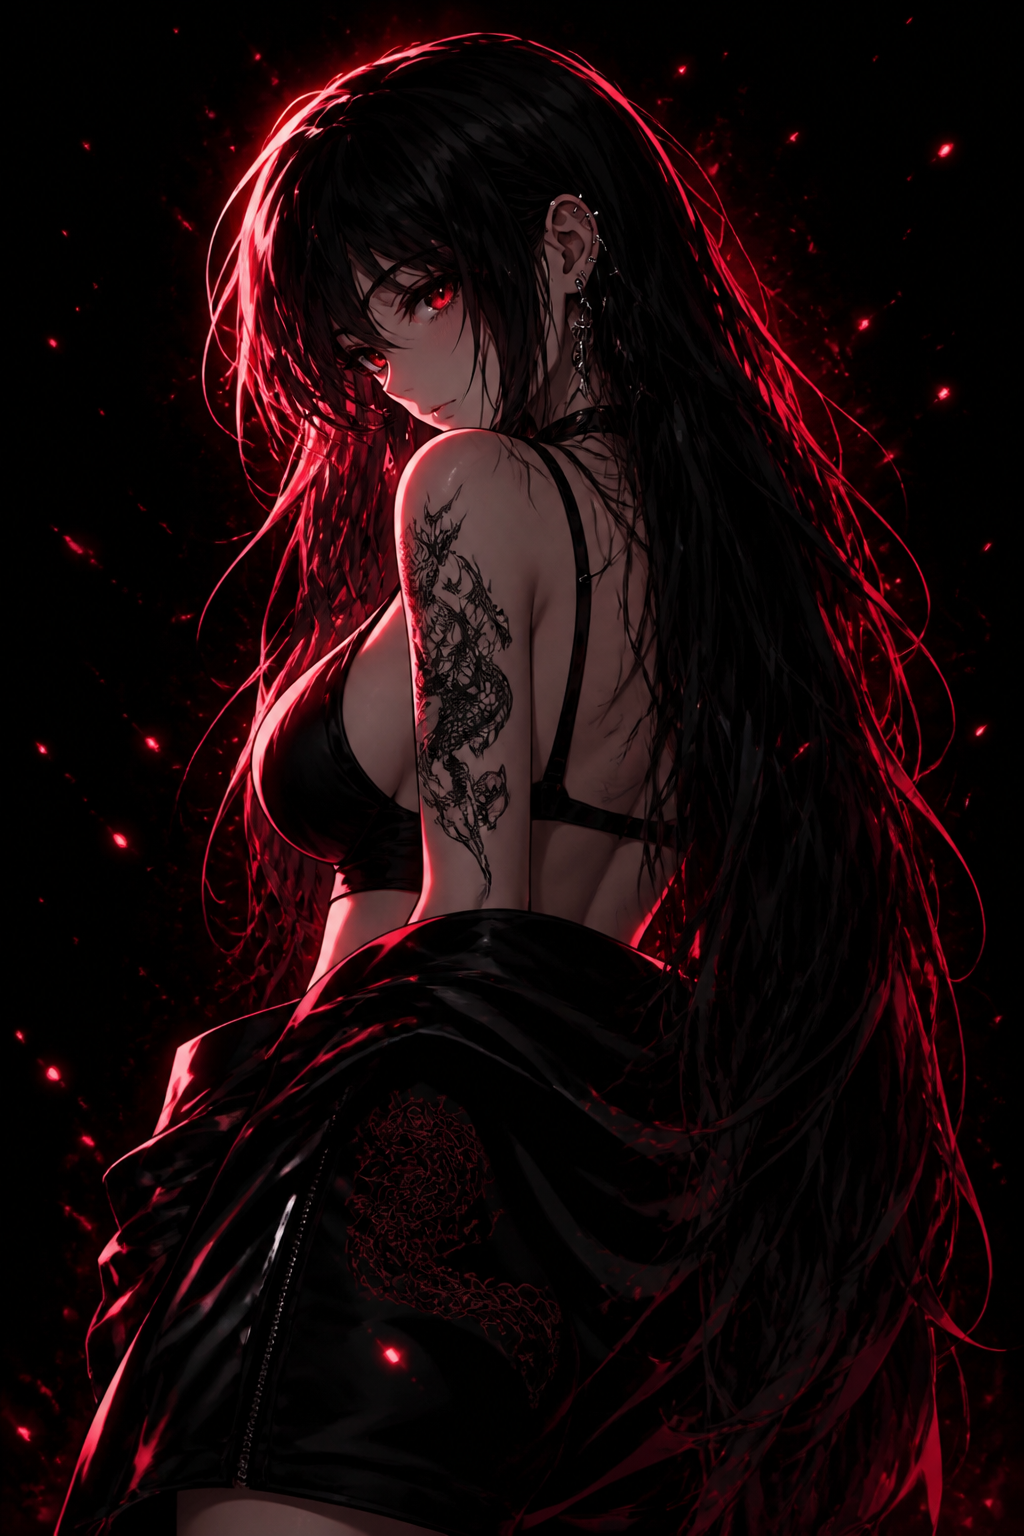
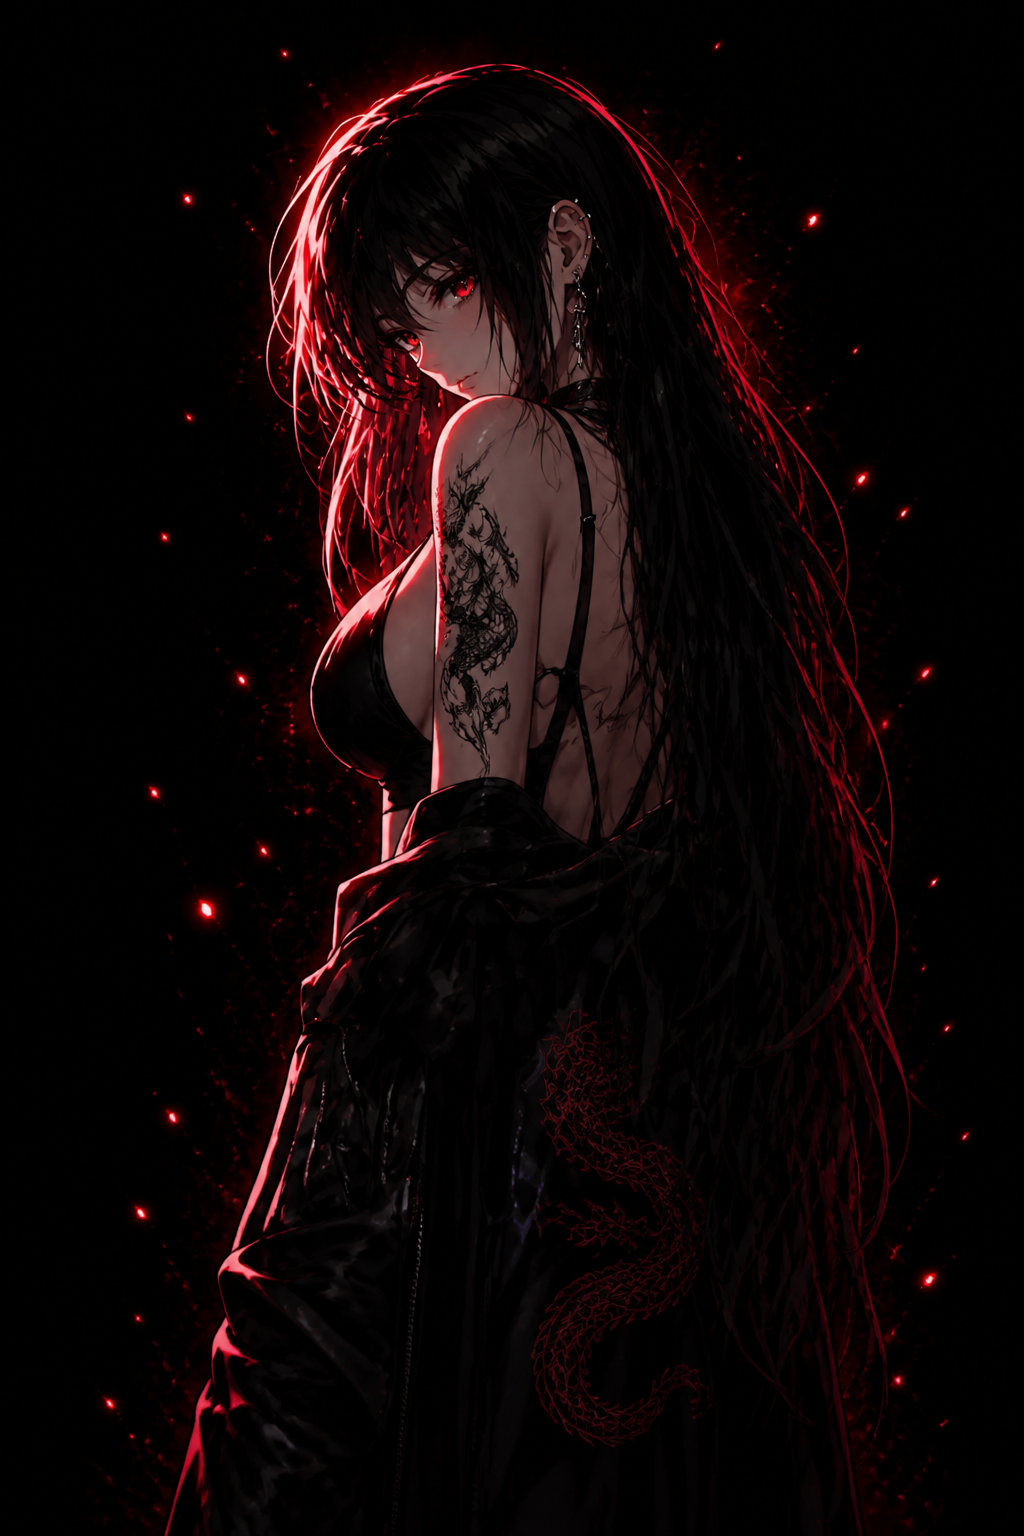
Update Music_Z site

diff --git a/src/styles.css b/src/styles.css
@@ -201,31 +201,67 @@ a { color: inherit; text-decoration: none; }
 
 .theme-switch {
   display: flex;
-  border: 1px solid var(--line);
-  border-radius: 999px;
-  overflow: hidden;
+  align-items: center;
+  gap: 0.55rem;
   flex-shrink: 0;
+  padding: 0.25rem 0.35rem;
+  user-select: none;
 }
-.theme-switch button {
-  border: 0;
-  background: transparent;
-  padding: 0.5rem 0.85rem;
+.theme-label {
+  display: inline-flex;
+  align-items: center;
+  gap: 0.3rem;
   font-size: 0.62rem;
   font-weight: 700;
-  letter-spacing: 0.06em;
+  letter-spacing: 0.08em;
   text-transform: uppercase;
-  cursor: pointer;
   color: var(--muted);
-  display: flex;
-  align-items: center;
-  gap: 0.35rem;
+  cursor: pointer;
+  transition: color 0.15s ease;
 }
-.theme-switch button.is-on { background: var(--accent); color: #fff; }
+.theme-ico { font-size: 0.85rem; line-height: 1; color: var(--muted); }
+.theme-switch[data-theme="dark"] .theme-label[data-theme-pick="dark"],
+.theme-switch[data-theme="light"] .theme-label[data-theme-pick="light"] {
+  color: var(--ink);
+}
+.theme-switch[data-theme="dark"] .theme-label[data-theme-pick="dark"] .theme-ico,
+.theme-switch[data-theme="light"] .theme-label[data-theme-pick="light"] .theme-ico {
+  color: var(--accent);
+}
+
+.theme-toggle {
+  position: relative;
+  width: 46px;
+  height: 22px;
+  border: 1px solid var(--line);
+  border-radius: 999px;
+  background: var(--bg);
+  cursor: pointer;
+  padding: 0;
+  flex-shrink: 0;
+  box-shadow: inset 0 0 0 1px rgba(225, 6, 0, 0.15);
+}
+.theme-knob {
+  position: absolute;
+  top: 2px;
+  left: 2px;
+  width: 16px;
+  height: 16px;
+  border-radius: 50%;
+  background: #fff;
+  box-shadow: 0 0 8px var(--glow);
+  transition: transform 0.18s ease, background 0.18s ease;
+}
+.theme-switch[data-theme="light"] .theme-knob {
+  transform: translateX(24px);
+  background: var(--accent);
+}
+.theme-toggle:hover { border-color: var(--accent); }
 
 /* ── Content grid (kit layout) ── */
 .grid {
   display: grid;
-  grid-template-columns: 1fr minmax(220px, 270px) minmax(200px, 260px);
+  grid-template-columns: 1fr minmax(220px, 270px) minmax(220px, 280px);
   grid-template-rows: auto 1fr;
   gap: 10px;
   padding: 10px;
@@ -346,8 +382,9 @@ a { color: inherit; text-decoration: none; }
   grid-row: 1 / 3;
   overflow: hidden;
   position: relative;
-  background: #050000;
+  background: #000;
   min-height: 420px;
+  isolation: isolate;
 }
 .deco-panel .char-art {
   position: absolute;
@@ -355,16 +392,17 @@ a { color: inherit; text-decoration: none; }
   width: 100%;
   height: 100%;
   object-fit: cover;
-  object-position: center top;
+  object-position: 58% 12%;
+  transform: none;
 }
 .deco-vignette {
   position: absolute;
   inset: 0;
   background:
-    linear-gradient(180deg, transparent 45%, rgba(0, 0, 0, 0.85) 100%),
-    linear-gradient(90deg, rgba(0, 0, 0, 0.35), transparent 30%);
+    linear-gradient(90deg, rgba(0, 0, 0, 0.55) 0%, transparent 28%),
+    linear-gradient(180deg, transparent 55%, rgba(0, 0, 0, 0.9) 100%);
   pointer-events: none;
-  box-shadow: inset 0 0 40px rgba(225, 6, 0, 0.25);
+  box-shadow: inset 0 0 0 1px rgba(225, 6, 0, 0.2);
 }
 .deco-tag {
   position: absolute;
@@ -373,7 +411,7 @@ a { color: inherit; text-decoration: none; }
   right: 0.75rem;
   z-index: 2;
   font-family: "Bebas Neue", sans-serif;
-  font-size: 1.35rem;
+  font-size: 1.2rem;
   color: var(--accent);
   text-shadow: 0 0 18px var(--glow), 0 2px 8px #000;
   letter-spacing: 0.06em;
@@ -724,7 +762,8 @@ a { color: inherit; text-decoration: none; }
 }
 
 @media (max-width: 480px) {
-  .theme-switch button { padding: 0.45rem 0.55rem; font-size: 0.55rem; }
+  .theme-label { font-size: 0.55rem; }
+  .theme-switch { gap: 0.35rem; }
   .hero-actions .btn { flex: 1; justify-content: center; }
   .brand-hero { font-size: 3rem; }
 }

diff --git a/src/main.ts b/src/main.ts
@@ -1,6 +1,6 @@
 import "./styles.css";
 import { AudioPlayer } from "./lib/player";
-import { applyTheme, getTheme, setTheme } from "./lib/theme";
+import { applyTheme, getTheme, setTheme, toggleTheme } from "./lib/theme";
 import {
   assetUrl,
   defaultLyrics,
@@ -88,9 +88,18 @@ function render(tracks: Track[]): void {
             ${ICONS.search}
             <input type="search" placeholder="Поиск трека, артиста…" data-search aria-label="Поиск" />
           </label>
-          <div class="theme-switch">
-            <button type="button" data-theme-pick="dark">☾ Тёмная</button>
-            <button type="button" data-theme-pick="light">☀ Светлая</button>
+          <div class="theme-switch" data-theme-root>
+            <span class="theme-label" data-theme-pick="dark">
+              <span class="theme-ico" aria-hidden="true">☾</span>
+              Тёмная
+            </span>
+            <button type="button" class="theme-toggle" data-theme-toggle aria-label="Сменить тему">
+              <span class="theme-knob"></span>
+            </button>
+            <span class="theme-label" data-theme-pick="light">
+              <span class="theme-ico" aria-hidden="true">☀</span>
+              Светлая
+            </span>
           </div>
         </header>
 
@@ -396,8 +405,11 @@ function render(tracks: Track[]): void {
     paintList();
   });
 
-  app.querySelectorAll<HTMLButtonElement>("[data-theme-pick]").forEach((btn) => {
-    btn.addEventListener("click", () => setTheme(btn.dataset.themePick as "dark" | "light"));
+  app.querySelectorAll<HTMLElement>("[data-theme-pick]").forEach((el) => {
+    el.addEventListener("click", () => setTheme(el.dataset.themePick as "dark" | "light"));
+  });
+  app.querySelector<HTMLButtonElement>("[data-theme-toggle]")!.addEventListener("click", () => {
+    toggleTheme();
   });
 
   app.querySelector<HTMLButtonElement>("[data-menu]")!.addEventListener("click", () => {

diff --git a/src/lib/theme.ts b/src/lib/theme.ts
@@ -12,8 +12,9 @@ export function applyTheme(theme: Theme): void {
   document.documentElement.dataset.theme = theme;
   document.documentElement.style.colorScheme = theme;
   localStorage.setItem(KEY, theme);
-  document.querySelectorAll<HTMLButtonElement>("[data-theme-pick]").forEach((btn) => {
-    btn.classList.toggle("is-on", btn.dataset.themePick === theme);
+
+  document.querySelectorAll<HTMLElement>("[data-theme-root]").forEach((root) => {
+    root.dataset.theme = theme;
   });
 }
 
